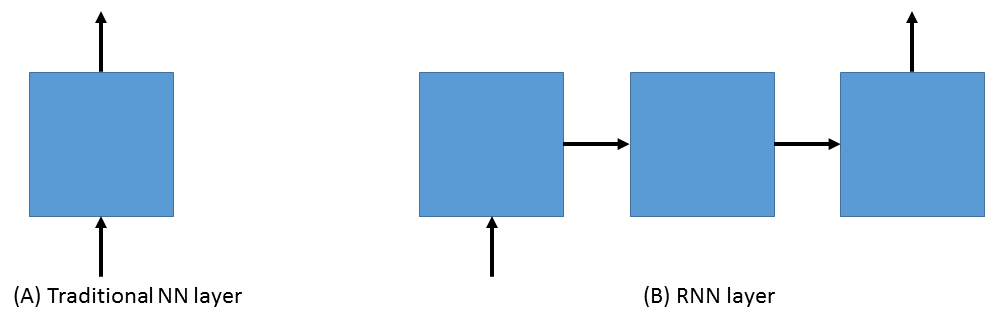
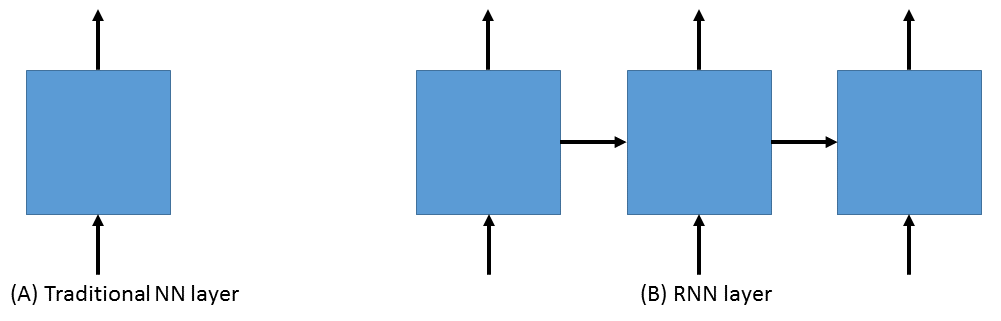
intro for execution context; more on getting started

diff --git a/contrib/Python/cntk/examples/LSTM/seqcla.py b/contrib/Python/cntk/examples/LSTM/seqcla.py
@@ -9,9 +9,9 @@ import sys
 import os
 sys.path.insert(0, os.path.join(os.path.dirname(__file__), '..', '..', '..'))
 
-from cntk import *
-from cntk.ops import *
+import cntk as C
 from cntk.ops import cntk1
+import numpy as np
 
 cur_dir = os.path.dirname(__file__)
 
@@ -24,7 +24,7 @@ embedding_file = os.path.join(cur_dir, "embeddingmatrix.txt")
 
 # this class is a temporary stop-gap to use a BS macro that hasn't been fully 
 # ported to the python API as of yet
-class Last(ComputationNode):
+class Last(C.ComputationNode):
     def __init__(self, x, op_name='BS.Sequences.Last', name=None):
         super(Last, self).__init__(params=['x'], op_name=op_name, name=name)
         self.x = x
@@ -33,38 +33,38 @@ class Last(ComputationNode):
 
 def lstm_layer(output_dim, cell_dim, x, input_dim):    
         
-    prev_state_h = past_value(0, 'lstm_state_h')
-    prev_state_c = past_value(0, 'lstm_state_c')
+    prev_state_h = C.past_value(0, 'lstm_state_h')
+    prev_state_c = C.past_value(0, 'lstm_state_c')
         
     lstm_state_c, lstm_state_h = lstm_func(output_dim, cell_dim, x, input_dim, prev_state_h, prev_state_c)
     lstm_state_c.name = 'lstm_state_c'
     lstm_state_h.name = 'lstm_state_h'
 
-    # return the hidden state
-    return lstm_state_h
+    # return the last hidden state
+    return Last(lstm_state_h)
     
 # currently requires output_dim==cell_dim    
 def lstm_func(output_dim, cell_dim, x, input_dim, prev_state_h, prev_state_c):
         
     # input gate (t)
-    it_w = times(parameter((cell_dim, input_dim)), x)
-    it_b = parameter((cell_dim))
-    it_h = times(parameter((cell_dim, output_dim)), prev_state_h)
-    it_c = parameter((cell_dim)) * prev_state_c        
-    it = sigmoid((it_w + it_b + it_h + it_c), name='it')
+    it_w = C.times(C.parameter((cell_dim, input_dim)), x)
+    it_b = C.parameter((cell_dim))
+    it_h = C.times(C.parameter((cell_dim, output_dim)), prev_state_h)
+    it_c = C.parameter((cell_dim)) * prev_state_c        
+    it = C.sigmoid((it_w + it_b + it_h + it_c), name='it')
 
     # applied to tanh of input    
-    bit_w = times(parameter((cell_dim, input_dim)), x)
-    bit_h = times(parameter((cell_dim, output_dim)), prev_state_h)
-    bit_b = parameter((cell_dim))
-    bit = it * tanh(bit_w + (bit_h + bit_b))
+    bit_w = C.times(C.parameter((cell_dim, input_dim)), x)
+    bit_h = C.times(C.parameter((cell_dim, output_dim)), prev_state_h)
+    bit_b = C.parameter((cell_dim))
+    bit = it * C.tanh(bit_w + (bit_h + bit_b))
         
     # forget-me-not gate (t)
-    ft_w = times(parameter((cell_dim, input_dim)), x)
-    ft_b = parameter((cell_dim))
-    ft_h = times(parameter((cell_dim, output_dim)), prev_state_h)
-    ft_c = parameter((cell_dim)) * prev_state_c        
-    ft = sigmoid((ft_w + ft_b + ft_h + ft_c), name='ft')
+    ft_w = C.times(C.parameter((cell_dim, input_dim)), x)
+    ft_b = C.parameter((cell_dim))
+    ft_h = C.times(C.parameter((cell_dim, output_dim)), prev_state_h)
+    ft_c = C.parameter((cell_dim)) * prev_state_c        
+    ft = C.sigmoid((ft_w + ft_b + ft_h + ft_c), name='ft')
 
     # applied to cell(t-1)
     bft = ft * prev_state_c
@@ -73,14 +73,14 @@ def lstm_func(output_dim, cell_dim, x, input_dim, prev_state_h, prev_state_c):
     ct = bft + bit
         
     # output gate
-    ot_w = times(parameter((cell_dim, input_dim)), x)
-    ot_b = parameter((cell_dim))
-    ot_h = times(parameter((cell_dim, output_dim)), prev_state_h)
-    ot_c = parameter((cell_dim)) * prev_state_c        
-    ot = sigmoid((ot_w + ot_b + ot_h + ot_c), name='ot')
+    ot_w = C.times(C.parameter((cell_dim, input_dim)), x)
+    ot_b = C.parameter((cell_dim))
+    ot_h = C.times(C.parameter((cell_dim, output_dim)), prev_state_h)
+    ot_c = C.parameter((cell_dim)) * prev_state_c        
+    ot = C.sigmoid((ot_w + ot_b + ot_h + ot_c), name='ot')
        
     # applied to tanh(cell(t))
-    ht = ot * tanh(ct)
+    ht = ot * C.tanh(ct)
         
     # return cell value and hidden state
     return ct, ht
@@ -100,41 +100,38 @@ def seqcla():
     vocab = 2000
     embed_dim = 50    
 
-    t = dynamic_axis(name='t')
+    t = C.dynamic_axis(name='t')
     # temporarily using cntk1 SpareInput because cntk2's Input() will simply allow sparse as a parameter
     features = cntk1.SparseInput(vocab, dynamicAxis=t, name='features')    
-    labels = input(num_labels, name='labels')
+    labels = C.input(num_labels, name='labels')
    
-    train_reader = CNTKTextFormatReader(train_file)
+    train_reader = C.CNTKTextFormatReader(train_file)
 
     # setup embedding matrix
-    embedding = parameter((embed_dim, vocab), learning_rate_multiplier=0.0, 
+    embedding = C.parameter((embed_dim, vocab), learning_rate_multiplier=0.0, 
                           init='fromFile', init_from_file_path=embedding_file)
 
     # get the vector representing the word
-    sequence = times(embedding, features, name='sequence')
+    sequence = C.times(embedding, features, name='sequence')
     
     # add an LSTM layer
     L = lstm_layer(output_dim, cell_dim, sequence, input_dim)
     
-    # get only the last hidden state
-    lst = Last(L, name='lst')
-    
     # add a softmax layer on top
-    w = parameter((num_labels, output_dim), name='w')
-    b = parameter((num_labels), name='b')
-    z = plus(times(w, lst), b, name='z')
+    w = C.parameter((num_labels, output_dim), name='w')
+    b = C.parameter((num_labels), name='b')
+    z = C.plus(C.times(w, L), b, name='z')
     z.tag = "output"
     
     # and reconcile the shared dynamic axis
-    pred = reconcile_dynamic_axis(z, labels, name='pred')    
+    pred = C.reconcile_dynamic_axis(z, labels, name='pred')    
     
-    ce = cntk1.CrossEntropyWithSoftmax(labels, pred)
+    ce = C.cross_entropy_with_softmax(labels, pred)
     ce.tag = "criterion"
     
-    my_sgd = SGDParams(epoch_size=0, minibatch_size=10, learning_rates_per_mb=0.1, max_epochs=3)    
+    my_sgd = C.SGDParams(epoch_size=0, minibatch_size=10, learning_rates_per_mb=0.1, max_epochs=3)    
     
-    with LocalExecutionContext('seqcla', clean_up=False) as ctx:
+    with C.LocalExecutionContext('seqcla', clean_up=False) as ctx:
         # train the model
         ctx.train(root_nodes=[ce], training_params=my_sgd, input_map=train_reader.map(
                   features, alias='x', dim=vocab, format='Sparse').map(

diff --git a/contrib/Python/doc/gettingstarted.rst b/contrib/Python/doc/gettingstarted.rst
@@ -35,13 +35,13 @@ Installing the Python module
    CNTK executable
 #. Enjoy Python's ease of use with CNTK's speed::
 
->>> import cntk as cn
->>> cn.__version__
-1.4
->>> with cn.Context('demo', clean_up=False) as ctx:
-...     a = cn.constant([[1,2], [3,4]])
-...     print(ctx.eval(a + [[10,20], [30, 40]]))
-[[11.0, 22.0], [33.0, 44.0]]
+    >>> import cntk as cn
+    >>> cn.__version__
+    1.4
+    >>> with cn.Context('demo', clean_up=False) as ctx:
+    ...     a = cn.constant([[1,2], [3,4]])
+    ...     print(ctx.eval(a + [[10,20], [30, 40]]))
+    [[11.0, 22.0], [33.0, 44.0]]
 
 In this case, we have set ``clean_up=False`` so that you can now peek into the
 folder ``_cntk_demo`` and see what has been created under the hood for you.
@@ -114,7 +114,7 @@ set ``has_dynamic_axis`` to False.
 
 Next, we define our network. In this case it's a simple 1-layer network with a weight tensor and a bias. 
 We multiply our data `x` with the weight tensor `W` and add the bias `b`. We then input the model prediction 
-into the `cross_entropy_with_softmax` node. This node first runs the data through a `softmax` to get 
+into the :func:`cntk.ops.cross_entropy_with_softmax` node. This node first runs the data through a `softmax` to get 
 probabilities for each class. Then the Cross Entropy loss function is applied. We tag the node `ce` with 
 "criterion" so that CNTK knows it's a node from which the learning can start flowing back through the network.
 
@@ -152,11 +152,19 @@ on the right.
     :width: 600px
     :alt: NN Layers
 	
-A particular type of RNN -- the Long Short Term Memory (LSTM) network -- is exceedingly 
-useful and in practice is what we commonly use when implementing an RNN. For more on why 
-LSTMs are so powerful, see, e.g. http://colah.github.io/posts/2015-08-Understanding-LSTMs/. 
-For our purposes, we will concentrate on the central feature of the LSTM model: the `memory 
-cell`. 
+As is apparent from the figure above on the right, RNNs are the natural structure for 
+dealing with sequences. This includes everything from text to music to video; anything 
+where the current state is dependent on the previous state. While RNNs are indeed 
+powerful, the "vanilla" RNN suffers from an important problem: long-term dependencies. 
+Because the gradient needs to flow back through the network to learn, the contribution 
+from an early element (for example a word at the start of a sentence) on a much later 
+elements (like the last word) can essentially vanish.
+
+To deal with the above problem, we turn to the Long Short Term Memory (LSTM) network. 
+LSTMs are a type of RNN that are exceedingly useful and in practice are what we commonly 
+use when implementing an RNN. For more on why LSTMs are so powerful, see, e.g. 
+http://colah.github.io/posts/2015-08-Understanding-LSTMs. For our purposes, we will 
+concentrate on the central feature of the LSTM model: the `memory cell`. 
 
 .. figure:: images/lstm_cell.png
     :width: 400px
@@ -164,67 +172,112 @@ cell`.
 	
     An LSTM cell.
 
-The ...
+The LSTM cell is associated with three gates that control how information is stored / 
+remembered in the LSTM. The "forget gate" determines what information should be kept 
+after a single element has flowed through the network. It makes this determination 
+using data for the current time step and the previous hidden state. 
 
-In this example we can think of the LSTM as a layer being added to the network::
+The "input gate" uses the same information as the forget gate, but passes it through 
+a `tanh` to determine what to add to the state. The final gate is the "output gate" 
+and it modulates what information should be output from the LSTM cell. This time we 
+also take the previous state's value into account in addition to the previous hidden 
+state and the data of the current state. We have purposely left the full details out 
+for conciseness, so please see the link above for a full understanding of how an LSTM 
+works.
 
-	def lstm_layer(output_dim, cell_dim, x, input_dim):    
+In our example, we will be using an LSTM to do sequence classification. But for even 
+better results, we will also introduce an additional concept here: 
+`word embeddings <https://en.wikipedia.org/wiki/Word_embedding>`_. 
+In traditional NLP approaches, words are seen as single points in a high dimensional 
+space (the vocabulary). A word is represented by an arbitrary id and that single number 
+contains no information about the meaning of the word or how it is used. However, with 
+word embeddings each word is represented by a learned vector that has some meaning. For 
+example, the vector representing the word "cat" may somehow be close, in some sense, to 
+the vector for "dog", and each dimension is encoding some similarities or differences 
+between those words that were learned usually by analyzing a large corpus. In our task, 
+we will use a pre-computed word embedding model (e.g. from `GloVe <http://nlp.stanford.edu/projects/glove/>`_) 
+and each of the words in the sequences will be replaced by their respective GloVe vector.
+
+Now that we've decided on our word representation and the type of recurrent neural 
+network we want to use, let's define the computational network that we'll use to do 
+sequence classification. We can think of the network as adding a series of layers:
+
+1. Embedding layer (individual words in each sequence become vectors)
+2. LSTM layer (allow each word to depend on previous words)
+3. Softmax layer (an additional set of parameters and output probabilities per class)
+
+We can define this network as follows in the CNTK Python API::
+
+    import cntk as C
+
+    def seqcla():    
+        # model
+        num_labels = 5
+        vocab = 2000
+        embed_dim = 50    
+		
+        # LSTM params
+        input_dim = 50
+        output_dim = 128
+        cell_dim = 128
+
+        t = C.dynamic_axis(name='t')
+        # temporarily using cntk1 SpareInput because cntk2's input() will simply allow sparse as a parameter
+        features = cntk1.SparseInput(vocab, dynamicAxis=t, name='features')    
+        labels = C.input(num_labels, name='labels')
+   
+        train_reader = C.CNTKTextFormatReader(train_file)
+
+        # setup embedding matrix
+        embedding = C.parameter((embed_dim, vocab), learning_rate_multiplier=0.0, 
+                                 init='fromFile', init_from_file_path=embedding_file)
+
+        # get the vector representing the word
+        sequence = C.times(embedding, features, name='sequence')
     
-		# use the CNTK operator `past_value` to get the previous state of the LSTM
-		prev_state_h = past_value(0, 'lstm_state_h')
-		prev_state_c = past_value(0, 'lstm_state_c')
-        
-		lstm_state_c, lstm_state_h = lstm_func(output_dim, cell_dim, x, input_dim, prev_state_h, prev_state_c)
-		lstm_state_c.name = 'lstm_state_c'
-		lstm_state_h.name = 'lstm_state_h'
+        # add an LSTM layer
+        L = lstm_layer(output_dim, cell_dim, sequence, input_dim)
+    
+        # add a dense layer on top
+        w = C.parameter((num_labels, output_dim), name='w')
+        b = C.parameter((num_labels), name='b')
+        z = C.plus(C.times(w, L), b, name='z')
+        z.tag = "output"
+    
+        # and reconcile the shared dynamic axis
+        pred = C.reconcile_dynamic_axis(z, labels, name='pred')    
+    
+        ce = C.cross_entropy_with_softmax(labels, pred)
+        ce.tag = "criterion"
 
-		# return the hidden state
-		return lstm_state_h
+Let's go through some of the intricacies of the above network definition. First, we define 
+some parameters of the data and the network. We have 5 possible classes for the sequences; 
+we're working with a vocabulary of 2000 words; and our embedding vectors have a dimension of 
+50. Because the word vectors are input to the LSTM, the `input_dim` of the LSTM is also 50. 
+We can, however, output any dimension from the LSTM; our `cell_dim` and `output_dim` are the 
+same and we output 128-dimensional tensors.
 
+We then set up our training data. First, we create a dynamic axis. The dynamic axis is a key 
+concept in CNTK that allows us to work with sequences without having to pad our data when we 
+have sequences of different lengths (which is almost always the case). We then set up our 
+features by defining a `SparseInput`. In this release, :func:`cntk.ops.input` only supports dense features 
+so we have to use the legacy `cntk1.SparseInput` until 1.5. Each word has a dimension of size 
+`vocab` and we attach the dynamic axis `t` that we created just above. Then we set up our labels 
+using the standard :func:`cntk.ops.input` where the dimension is of size `num_labels`.
 
-...
+Our final piece of setup before beginning to define the network is creating a `reader` for our 
+training data. We use the :class:`cntk.reader.CNTKTextFormatReader` and pass in the name of our 
+training data file.
 
-The parameters in an LSTM cell::
+Now we can start defining our network. The first layer is the word embedding. We define this 
+using a `parameter` of shape `(embed_dim, vocab)` that is initialized from a file where our 
+embedding matrix is stored. We set the `learning_rate_multiplier` parameter to 0.0 so that this 
+is treated as a constant.
 
-    def lstm_func(output_dim, cell_dim, x, input_dim, prev_state_h, prev_state_c):
-        
-        # input gate (t)
-        it_w = times(parameter((cell_dim, input_dim)), x)
-        it_b = parameter((cell_dim))
-        it_h = times(parameter((cell_dim, output_dim)), prev_state_h)
-        it_c = parameter((cell_dim)) * prev_state_c        
-        it = sigmoid((it_w + it_b + it_h + it_c), name='it')
+To view the input data words as vectors, we multiply the embedding matrix with the one-hot vector 
+words which results in the data being represented by vectors. An LSTM layer is then added which 
+returns the last hidden state of the unrolled network. We then add the dense layer followed by 
+the criterion node that adds a softmax and then implements the cross entropy loss function. Before 
+we add the criterion node, however, we call :func:`cntk.ops.reconcile_dynamic_axis` which will ensure 
+that the minibatch layout for the labels and the data with dynamic axes is compatible.
 
-        # applied to tanh of input    
-        bit_w = times(parameter((cell_dim, input_dim)), x)
-        bit_h = times(parameter((cell_dim, output_dim)), prev_state_h)
-        bit_b = parameter((cell_dim))
-        bit = it * tanh(bit_w + (bit_h + bit_b))
-        
-        # forget-me-not gate (t)
-        ft_w = times(parameter((cell_dim, input_dim)), x)
-        ft_b = parameter((cell_dim))
-        ft_h = times(parameter((cell_dim, output_dim)), prev_state_h)
-        ft_c = parameter((cell_dim)) * prev_state_c        
-        ft = sigmoid((ft_w + ft_b + ft_h + ft_c), name='ft')
-
-        # applied to cell(t-1)
-        bft = ft * prev_state_c
-        
-        # c(t) = sum of both
-        ct = bft + bit
-        
-        # output gate
-        ot_w = times(parameter((cell_dim, input_dim)), x)
-        ot_b = parameter((cell_dim))
-        ot_h = times(parameter((cell_dim, output_dim)), prev_state_h)
-        ot_c = parameter((cell_dim)) * prev_state_c        
-        ot = sigmoid((ot_w + ot_b + ot_h + ot_c), name='ot')
-       
-        # applied to tanh(cell(t))
-        ht = ot * tanh(ct)
-        
-        # return cell value and hidden state
-        return ct, ht
-
-The above function ...

diff --git a/contrib/Python/doc/context.rst b/contrib/Python/doc/context.rst
@@ -1,11 +1,17 @@
-Context
-=======
+Execution Context
+=================
 
-Intro
-----------
+An execution context defines how and where a CNTK network will be created and run. 
+The context can be either `Local` or `Deferred`. In the former case the functions 
+(such as training and testing the network) are done locally and immediately so that 
+the result is returned interactively to your Python session.
 
-Examples
-----------
+With a `Deferred` context, the functions simply set up a configuration file that can 
+be used with CNTK at a later date. For example, if you would like to develop your 
+network locally to get things working, and then launch the training on a GPU cluster, 
+you can use the deferred context to simply turn your Python script into a CNTK configuration 
+and then send that configuration to your cluster.
+
 
 Usage
 -------
